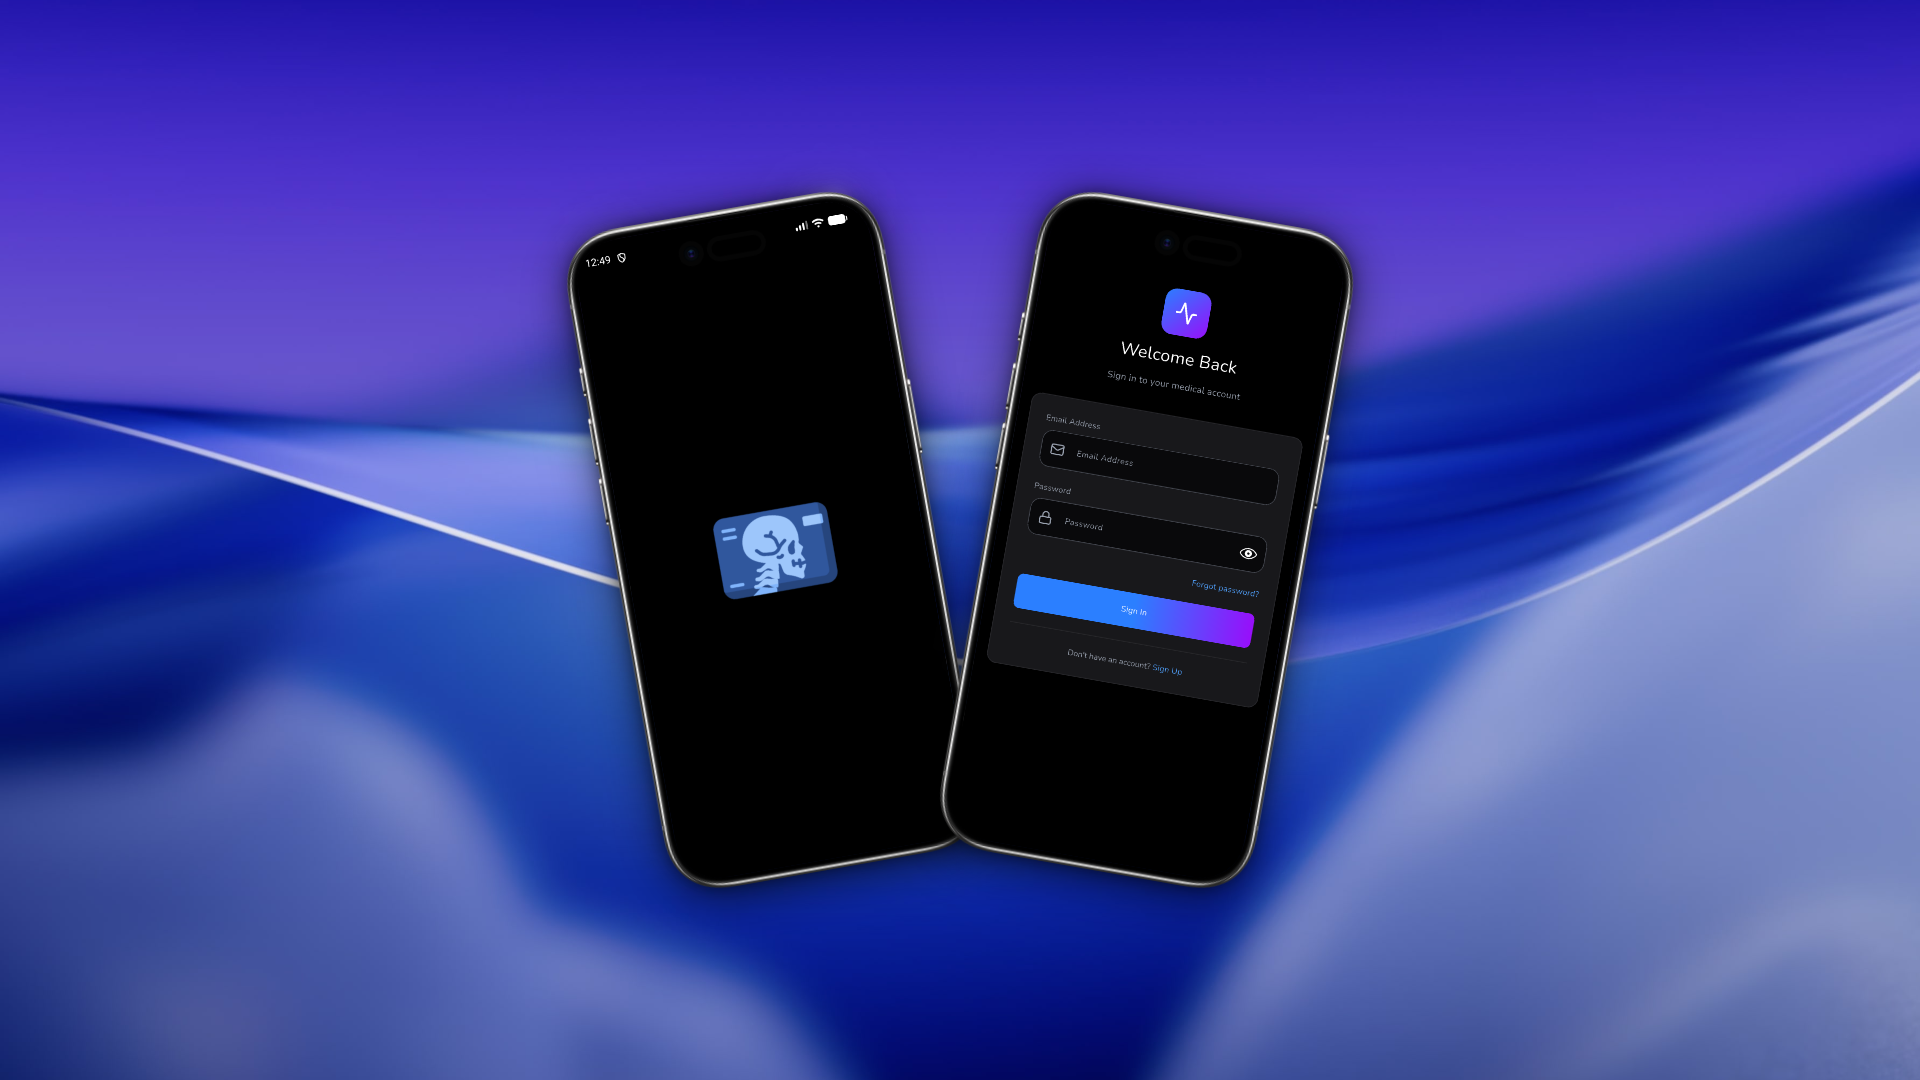
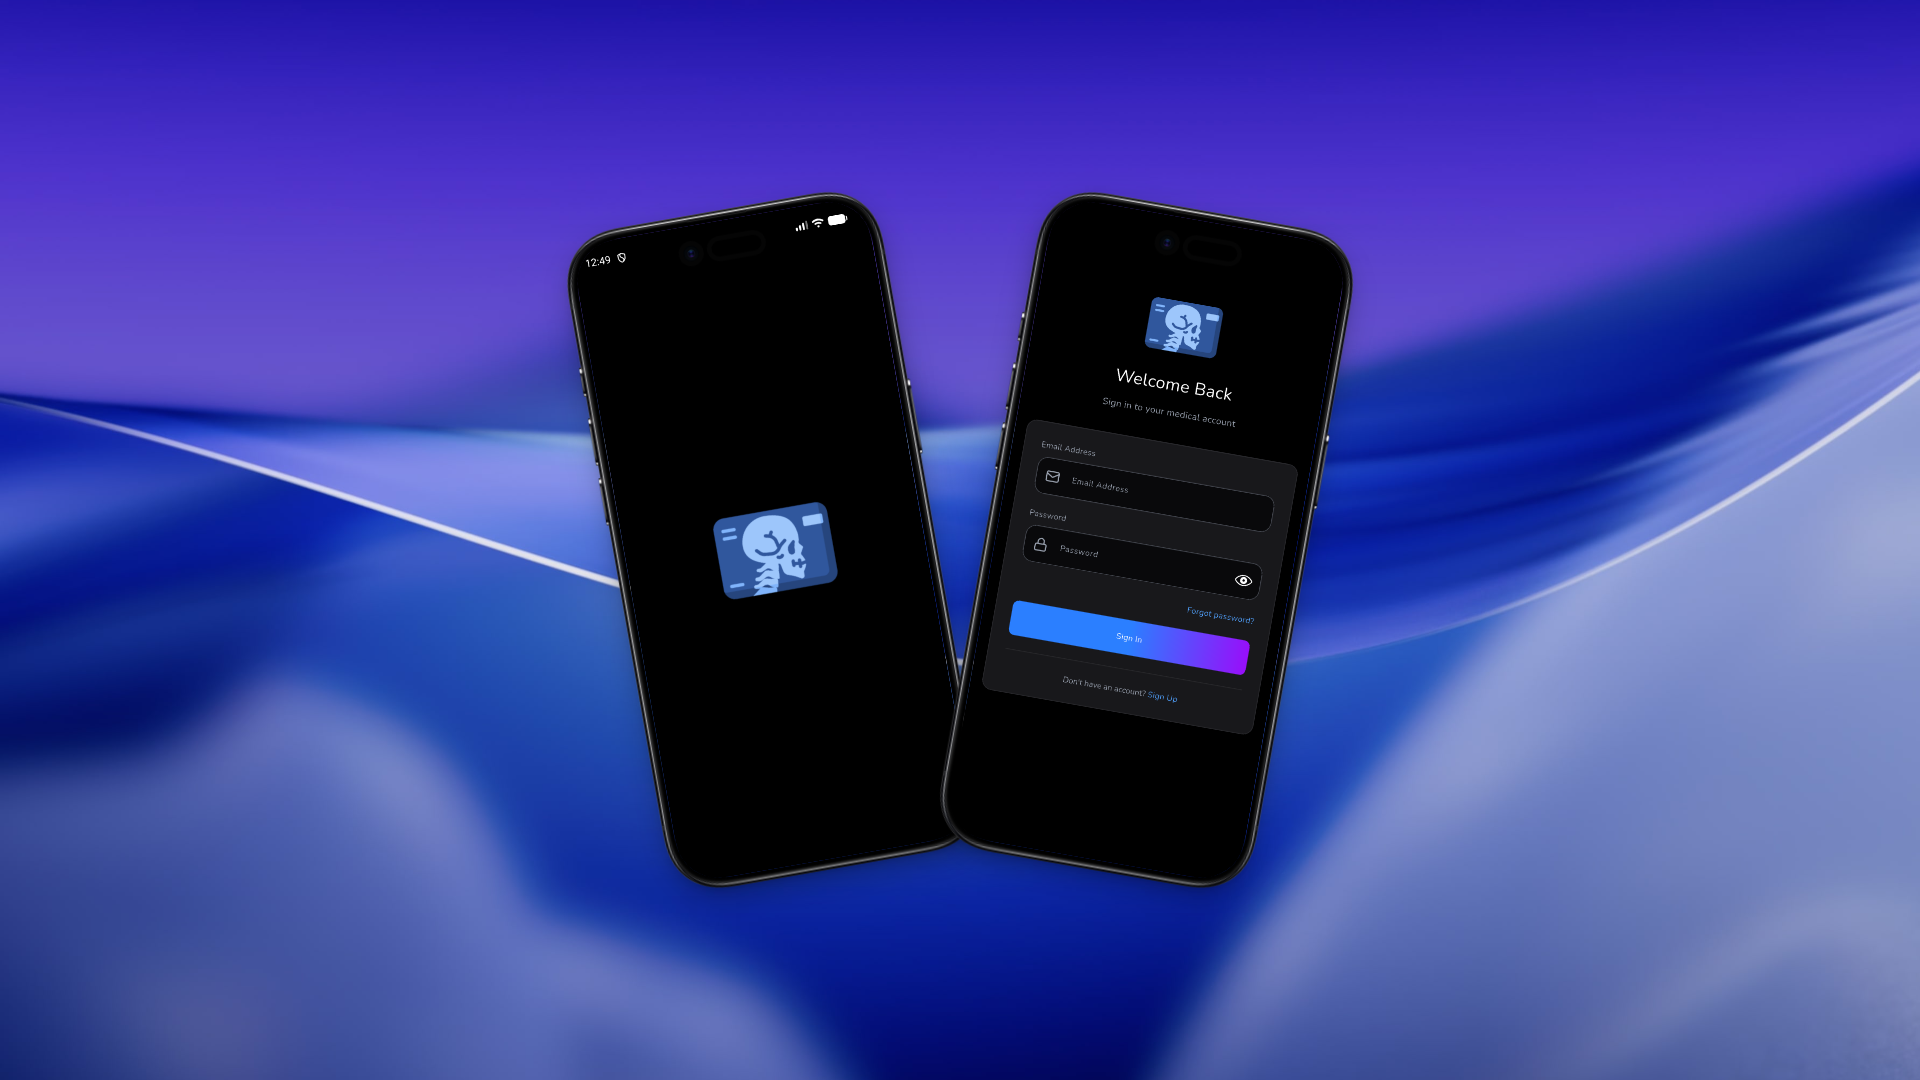
fix: solve all issue in issue list

Changed region(s): [[0.2812, 0.1528, 0.7188, 0.8556]]

diff --git a/lib/core/network/api_client.dart b/lib/core/network/api_client.dart
@@ -13,9 +13,9 @@ class ApiClient {
   ApiClient(this._authLocal, this._tokenRefresher) {
     final baseOptions = BaseOptions(
       baseUrl: ApiConstant.baseUrl,
-      connectTimeout: const Duration(seconds: 30),
-      receiveTimeout: const Duration(seconds: 30),
-      sendTimeout: const Duration(seconds: 30),
+      connectTimeout: const Duration(seconds: 120),
+      receiveTimeout: const Duration(seconds: 120),
+      sendTimeout: const Duration(seconds: 120),
       receiveDataWhenStatusError: true,
       headers: {
         'Content-Type': 'application/json',
@@ -69,7 +69,8 @@ class ApiClient {
             return;
           }
           try {
-            final access = await _tokenRefresher.refreshAccessTokenSingleFlight();
+            final access = await _tokenRefresher
+                .refreshAccessTokenSingleFlight();
             if (access == null || access.isEmpty) {
               await _tokenRefresher.invalidateSession();
               handler.next(err);
@@ -110,10 +111,7 @@ class ApiClient {
   final AuthTokenRefresher _tokenRefresher;
   late final Dio _dio;
 
-  Future<Response> get(
-    String path, {
-    Map<String, dynamic>? queryParameters,
-  }) =>
+  Future<Response> get(String path, {Map<String, dynamic>? queryParameters}) =>
       _dio.get(path, queryParameters: queryParameters);
 
   Future<Response> post(
@@ -122,35 +120,31 @@ class ApiClient {
     Map<String, dynamic>? queryParameters,
     ProgressCallback? onSendProgress,
     CancelToken? cancelToken,
-  }) =>
-      _dio.post(
-        path,
-        data: data,
-        queryParameters: queryParameters,
-        onSendProgress: onSendProgress,
-        cancelToken: cancelToken,
-      );
+  }) => _dio.post(
+    path,
+    data: data,
+    queryParameters: queryParameters,
+    onSendProgress: onSendProgress,
+    cancelToken: cancelToken,
+  );
 
   Future<Response> put(
     String path, {
     dynamic data,
     Map<String, dynamic>? queryParameters,
-  }) =>
-      _dio.put(path, data: data, queryParameters: queryParameters);
+  }) => _dio.put(path, data: data, queryParameters: queryParameters);
 
   Future<Response> patch(
     String path, {
     dynamic data,
     Map<String, dynamic>? queryParameters,
-  }) =>
-      _dio.patch(path, data: data, queryParameters: queryParameters);
+  }) => _dio.patch(path, data: data, queryParameters: queryParameters);
 
   Future<Response> delete(
     String path, {
     dynamic data,
     Map<String, dynamic>? queryParameters,
-  }) =>
-      _dio.delete(path, data: data, queryParameters: queryParameters);
+  }) => _dio.delete(path, data: data, queryParameters: queryParameters);
 }
 
 String _normalizePath(String path) {

diff --git a/lib/feature/auth/presentation/shared/auth_header.dart b/lib/feature/auth/presentation/shared/auth_header.dart
@@ -1,4 +1,4 @@
-import 'package:flutter_svg/flutter_svg.dart';
+
 import 'package:medcoco/core/generated/assets.dart';
 import 'package:flutter/cupertino.dart';
 import 'package:medcoco/core/theme/app_color.dart';
@@ -12,7 +12,11 @@ class AuthHeader extends StatelessWidget {
   Widget build(BuildContext context) {
     return Column(
       children: [
-        SvgPicture.asset(AppAssets.logo),
+        Image.asset(AppAssets.logo,
+        width: 100,
+        height: 100,
+        fit: BoxFit.contain,
+        ),
         const SizedBox(height: 13),
         Text(title,style: AppStyles.styleRegular30(context),),
         const SizedBox(height: 13),

diff --git a/lib/feature/home/presentation/shared/logout_item.dart b/lib/feature/home/presentation/shared/logout_item.dart
@@ -5,7 +5,7 @@ import 'package:medcoco/core/generated/assets.dart';
 import 'package:medcoco/core/theme/app_color.dart';
 import 'package:medcoco/core/theme/app_style.dart';
 import 'package:medcoco/feature/auth/presentation/cubit/auth/auth_cubit.dart';
-import 'package:medcoco/feature/history/presentation/cubit/history_cubit.dart';
+
 
 class LogoutItem extends StatelessWidget {
   const LogoutItem({super.key,});
@@ -21,7 +21,7 @@ class LogoutItem extends StatelessWidget {
       mouseCursor: SystemMouseCursors.click,
       onTap: () {
         serviceLocator<AuthCubit>().logout();
-        serviceLocator<HistoryCubit>().clearHistory();
+
       },
       borderRadius: BorderRadius.circular(14),
       hoverColor: AppColor.red.withValues(alpha: 0.1),

diff --git a/lib/feature/auth/presentation/cubit/auth/auth_cubit.dart b/lib/feature/auth/presentation/cubit/auth/auth_cubit.dart
@@ -1,7 +1,9 @@
 import 'package:flutter_bloc/flutter_bloc.dart';
 import 'package:injectable/injectable.dart';
+import 'package:medcoco/core/di/service_locator.dart';
 import 'package:medcoco/feature/auth/data/service/local/auth_local_medical_service.dart';
 import 'package:medcoco/feature/auth/presentation/cubit/auth/auth_status.dart';
+import 'package:medcoco/feature/history/presentation/cubit/history_cubit.dart';
 
 @lazySingleton
 class AuthCubit extends Cubit<AuthStatus> {
@@ -26,6 +28,7 @@ class AuthCubit extends Cubit<AuthStatus> {
 
   Future<void> logout() async {
     await _localService.removeUserInfo();
+    serviceLocator<HistoryCubit>().clearHistory();
     emit(AuthStatus.unauthenticated);
   }
 }

diff --git a/lib/feature/upload/presentation/widgets/custom_nav_bar.dart b/lib/feature/upload/presentation/widgets/custom_nav_bar.dart
@@ -2,7 +2,6 @@ import 'package:flutter/material.dart';
 import 'package:flutter_bloc/flutter_bloc.dart';
 import 'package:medcoco/core/di/service_locator.dart';
 import 'package:medcoco/feature/auth/presentation/cubit/auth/auth_cubit.dart';
-import 'package:medcoco/feature/history/presentation/cubit/history_cubit.dart';
 import 'package:medcoco/feature/home/presentation/cubit/page_cubit.dart';
 
 import '../../data/models/nav_model.dart';
@@ -22,7 +21,7 @@ class CustomNavBar extends StatelessWidget {
           onDestinationSelected: (index) {
             if (index == _logoutIndex) {
               serviceLocator<AuthCubit>().logout();
-              serviceLocator<HistoryCubit>().clearHistory();
+   
               return;
             }
             if (index == currentTab) return;